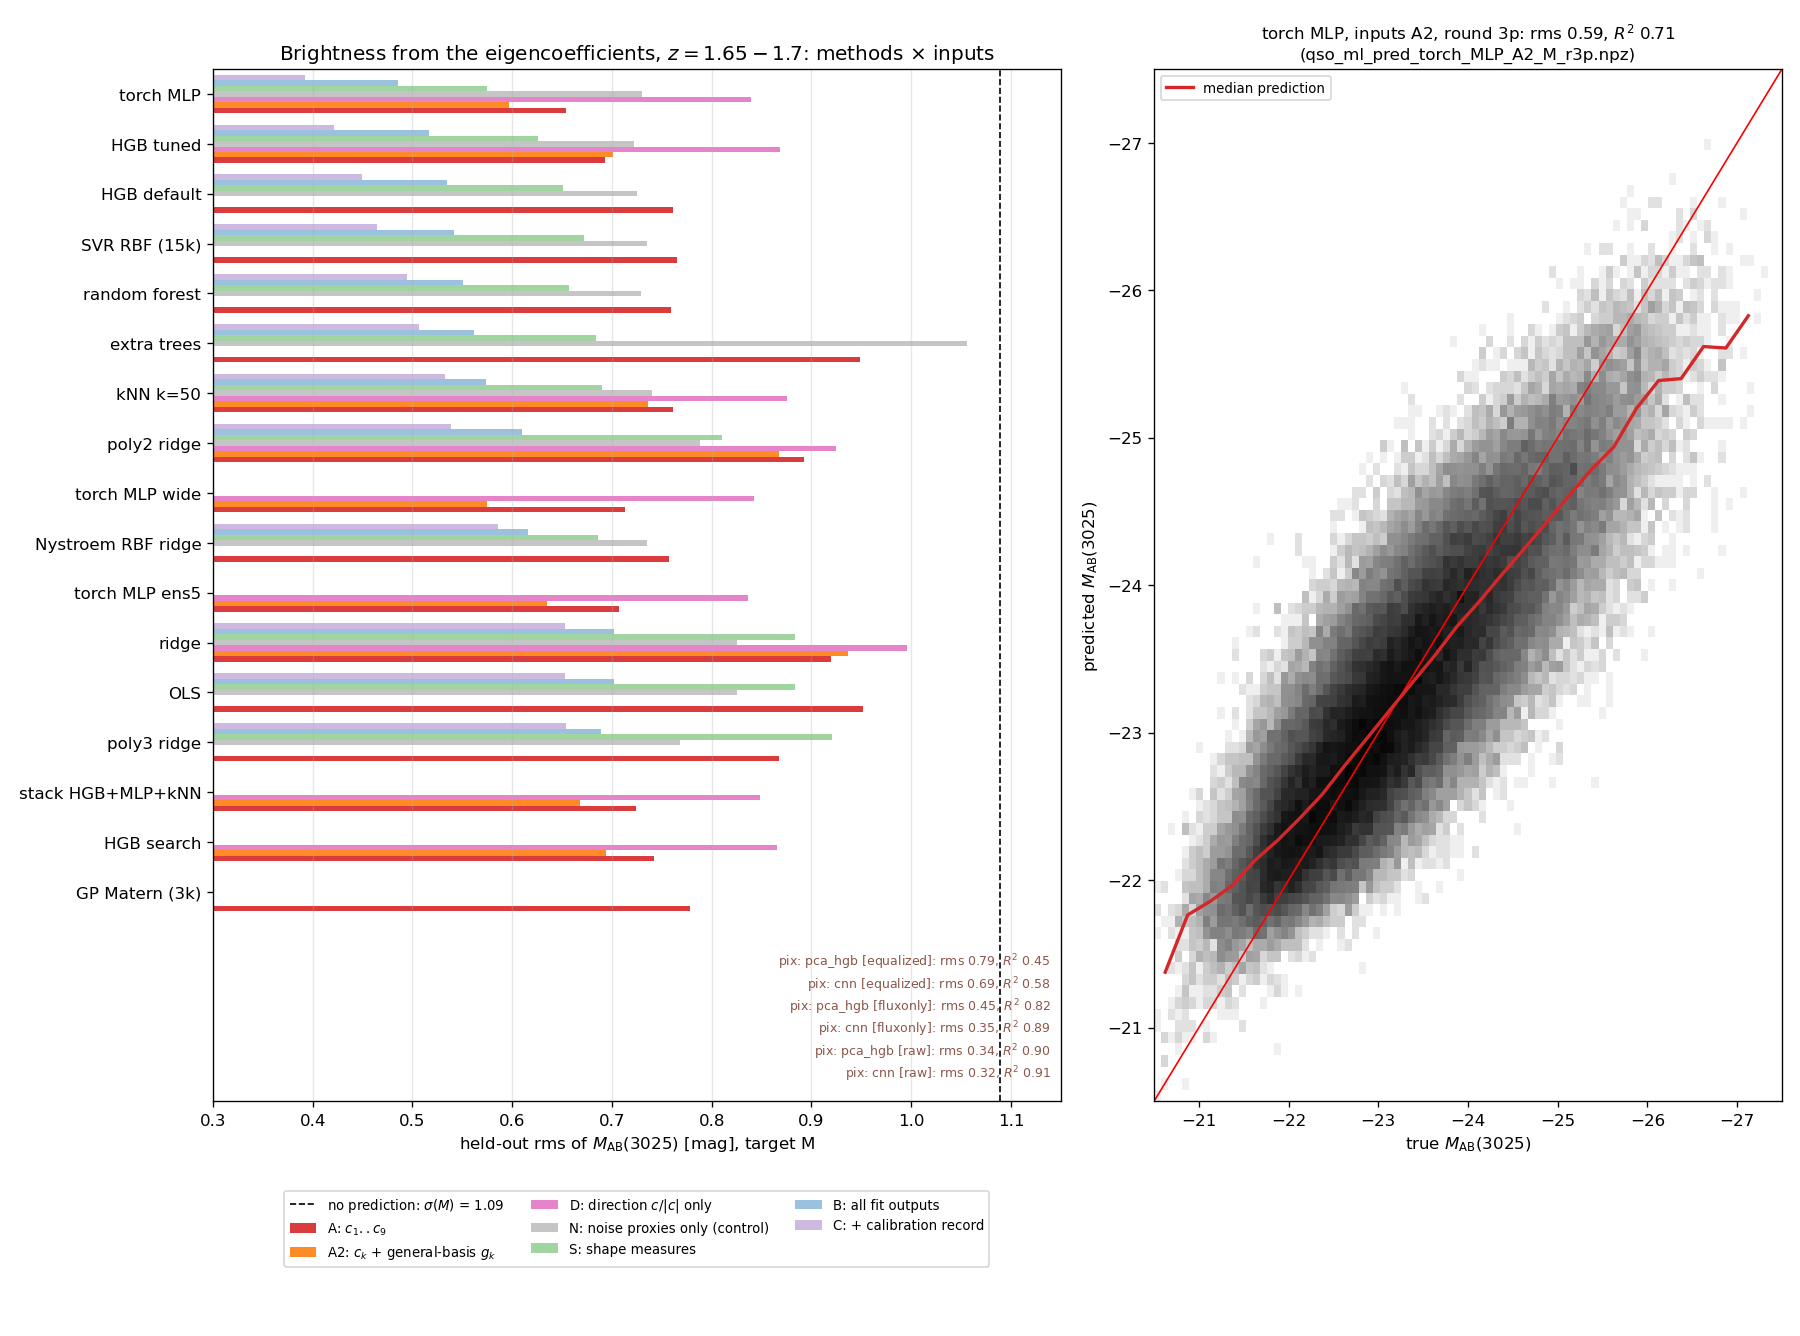
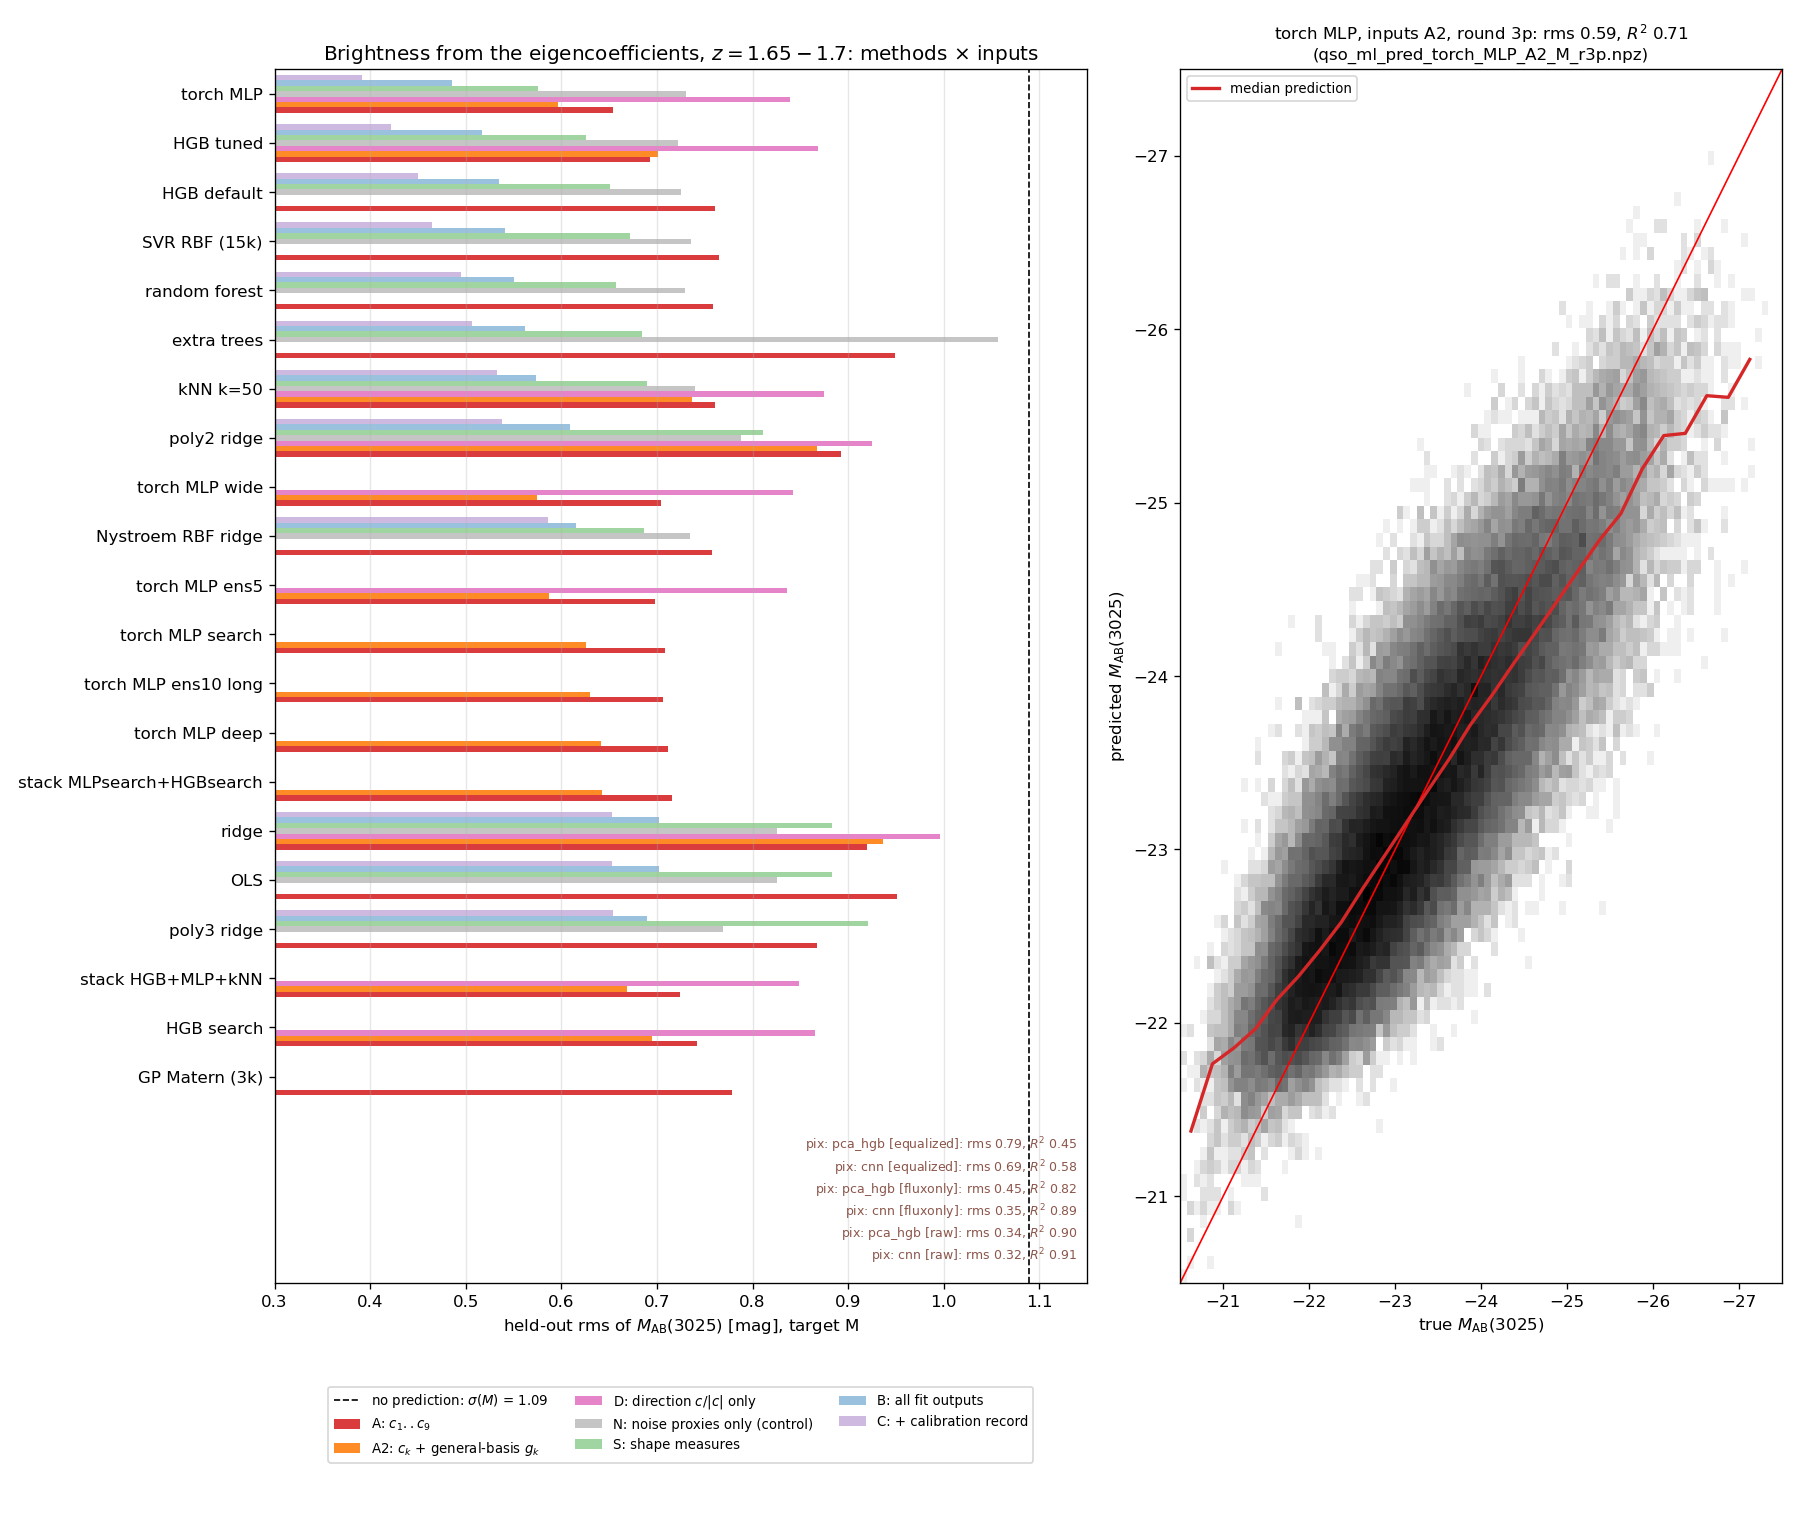
quasars ML benchmark: rounds 4 and 5 complete (architecture search 0.670 on the slice, ens5 0.710 at z 1.0-2.5); table and figure refreshed

diff --git a/csv_files/qso_ml_bench_z1.65-1.7_v1_M.tex b/csv_files/qso_ml_bench_z1.65-1.7_v1_M.tex
@@ -2,7 +2,7 @@
 nine $c_k$ & ridge & 1.65--1.7 & 0.236 & 0.952 & 0.725 & 0.940\\
  & kNN k=50 & 1.65--1.7 & 0.511 & 0.761 & 0.682 & 0.761\\
  & HGB search & 1.65--1.7 & 0.535 & 0.742 & 0.686 & 0.703\\
- & torch MLP & 1.0--2.5 & 0.584 & 0.702 & 0.663 & 0.658\\
+ & torch MLP ens5 & 1.0--2.5 & 0.589 & 0.698 & 0.662 & 0.655\\
 $c_k$ + $g_k$ (18) & ridge & 1.65--1.7 & 0.261 & 0.936 & 0.719 & 0.920\\
  & kNN k=50 & 1.65--1.7 & 0.543 & 0.736 & 0.666 & 0.764\\
  & HGB search & 1.65--1.7 & 0.593 & 0.694 & 0.664 & 0.655\\
